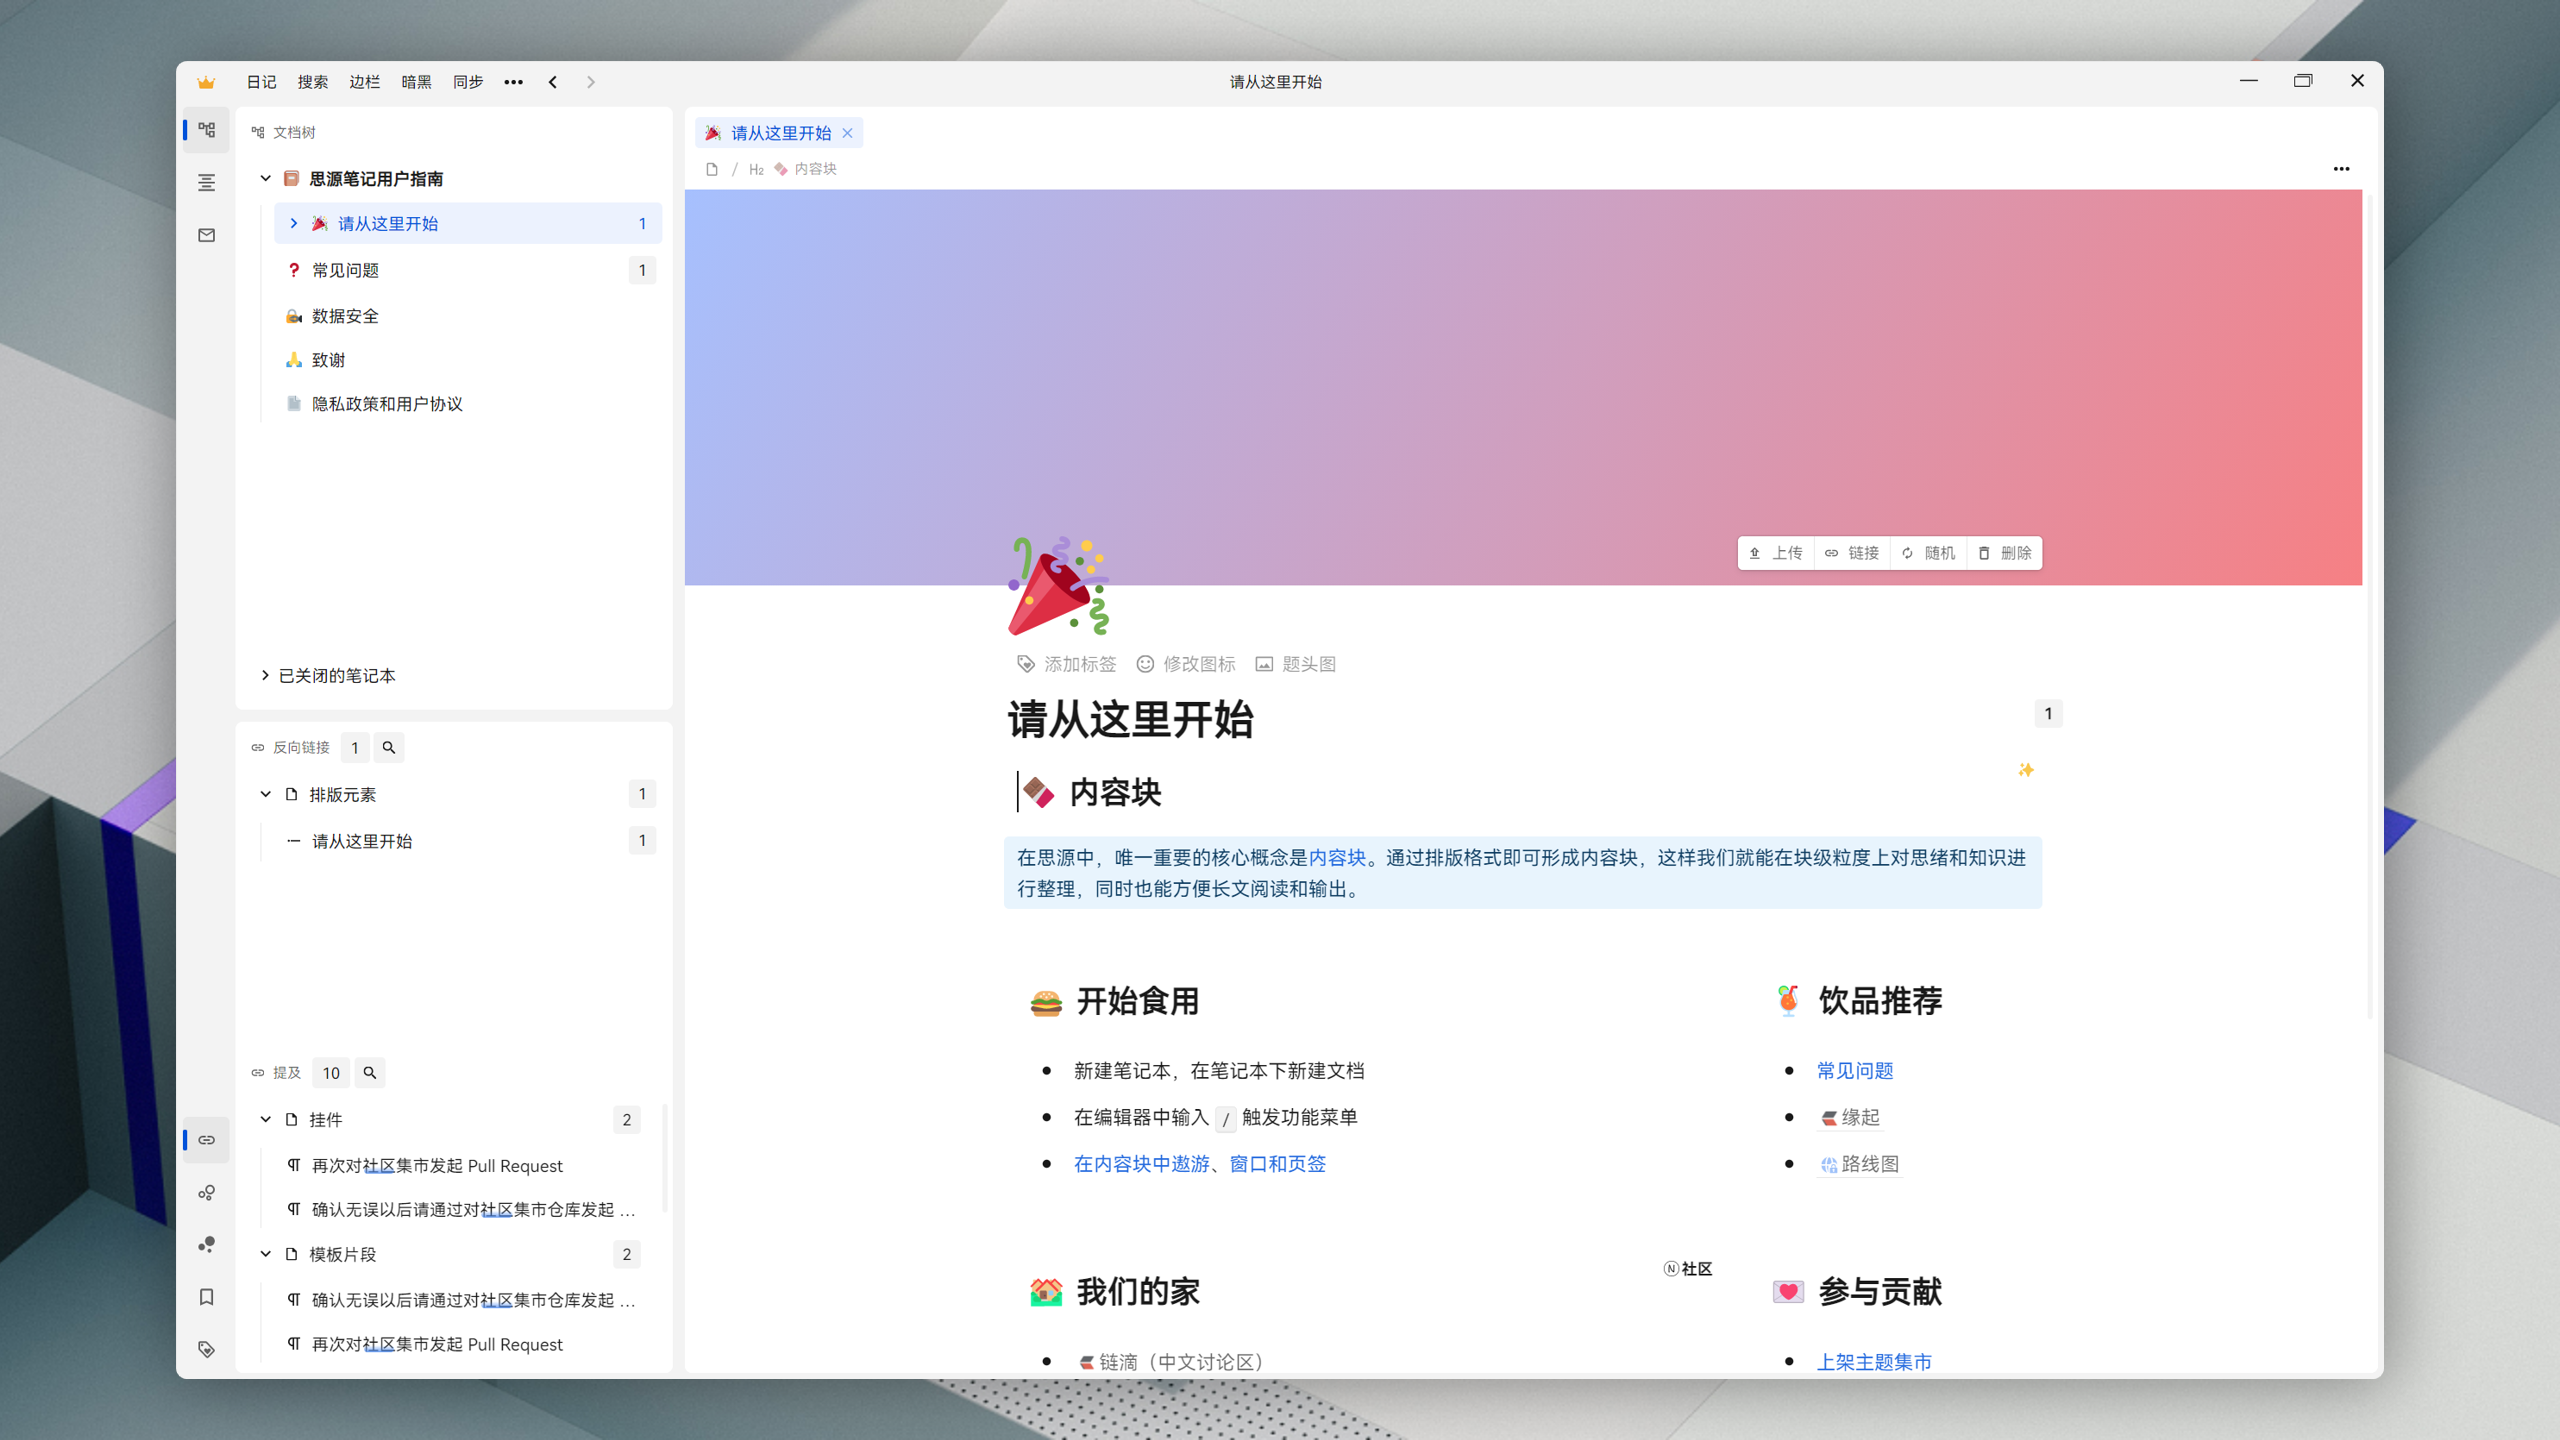
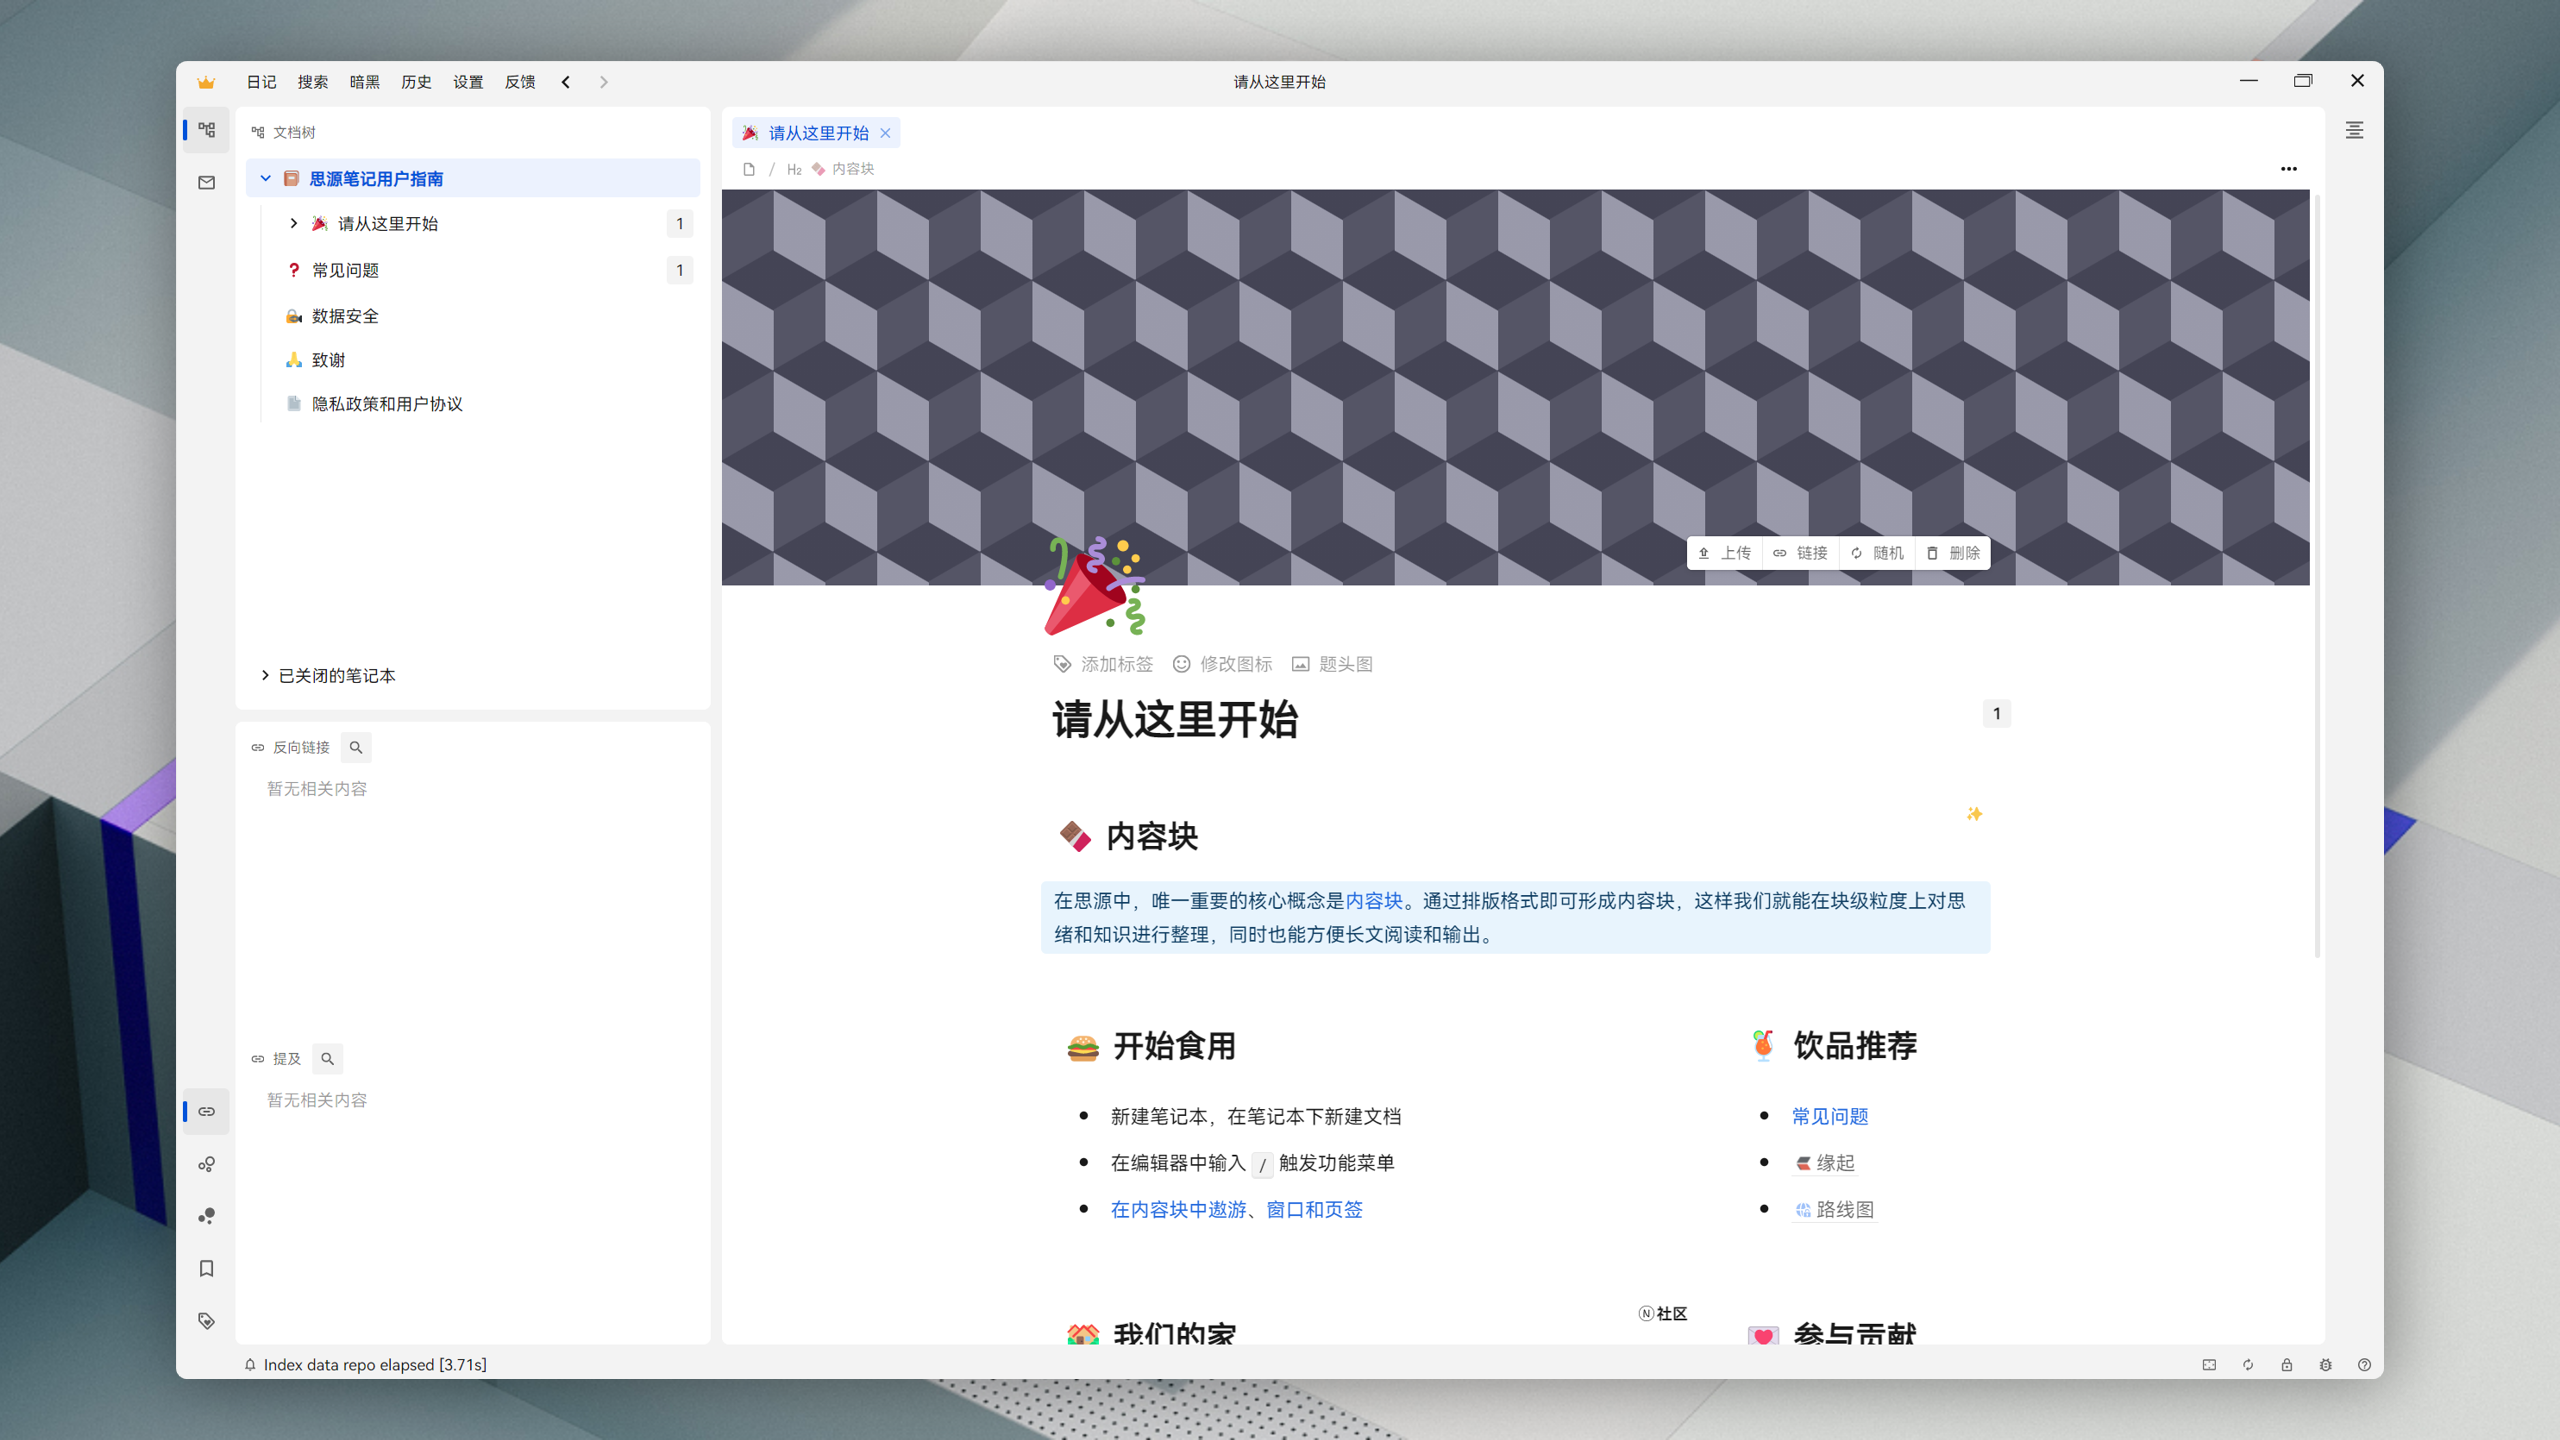
docs: 更新预览图

diff --git a/README.md b/README.md
@@ -8,7 +8,7 @@
 
 一款现代化、平面化设计的思源笔记主题
 
-<img width="1280" alt="preview" src="https://user-images.githubusercontent.com/61345763/175478393-389f717a-2887-4890-b0bf-f29e6ebe653f.png">
+<img width="1280" alt="preview" src="https://user-images.githubusercontent.com/61345763/175880281-4874f851-8aff-4677-8d54-f90f711f4892.png">
 
 ## 参考样式
 
